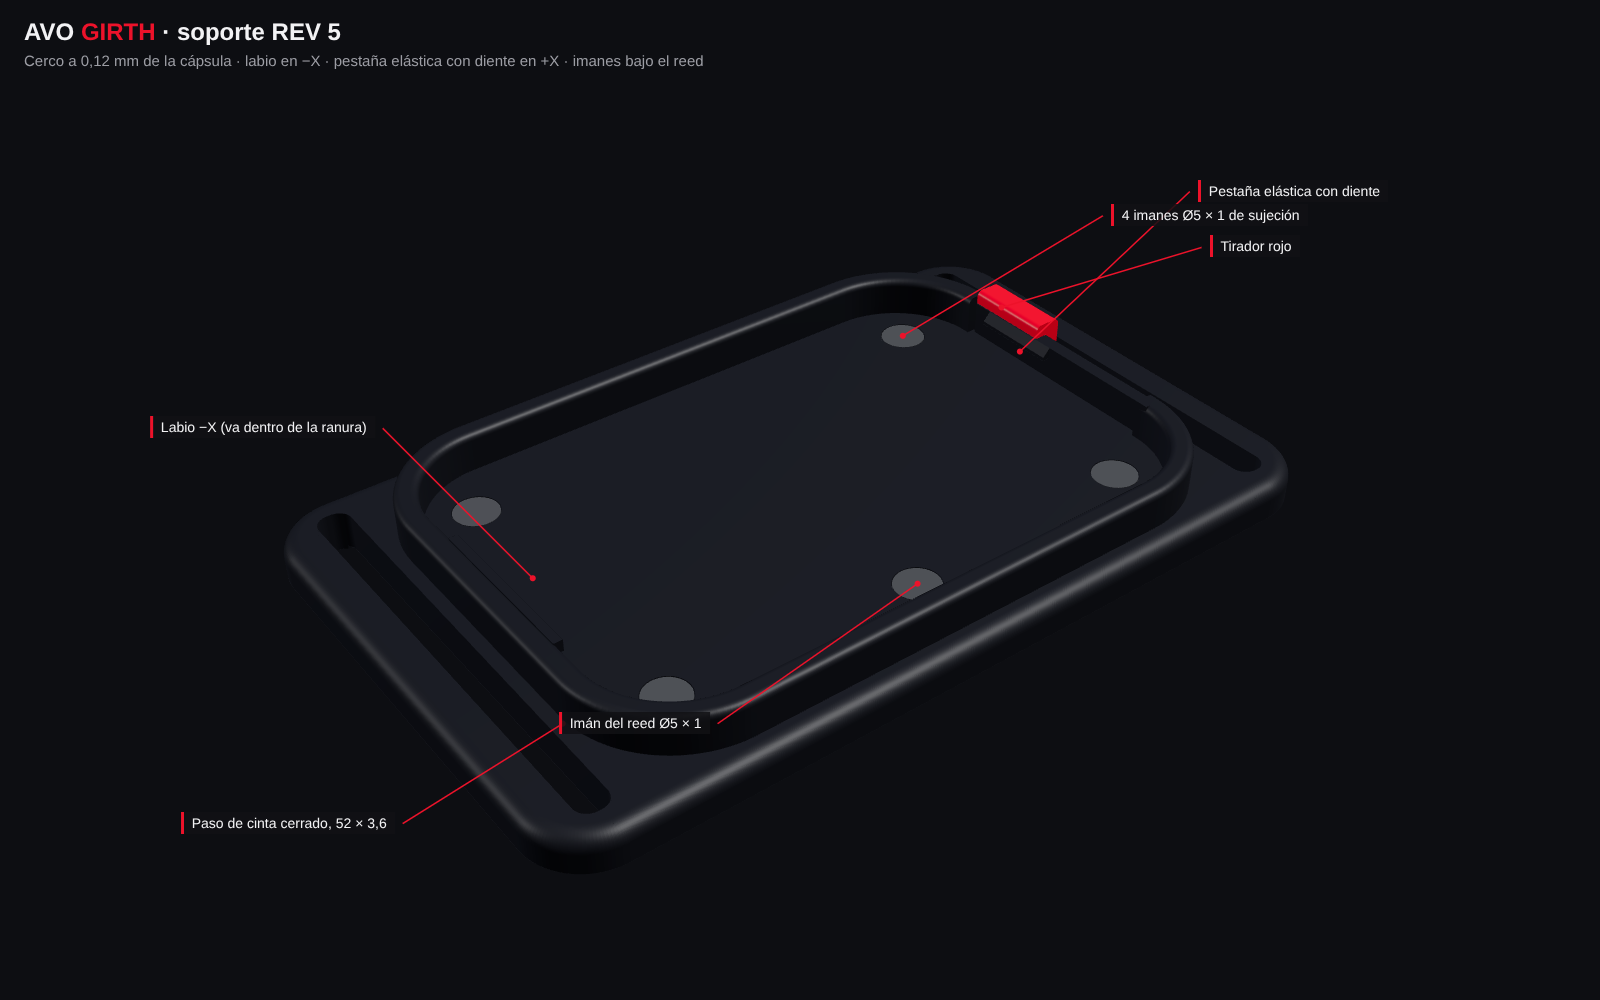
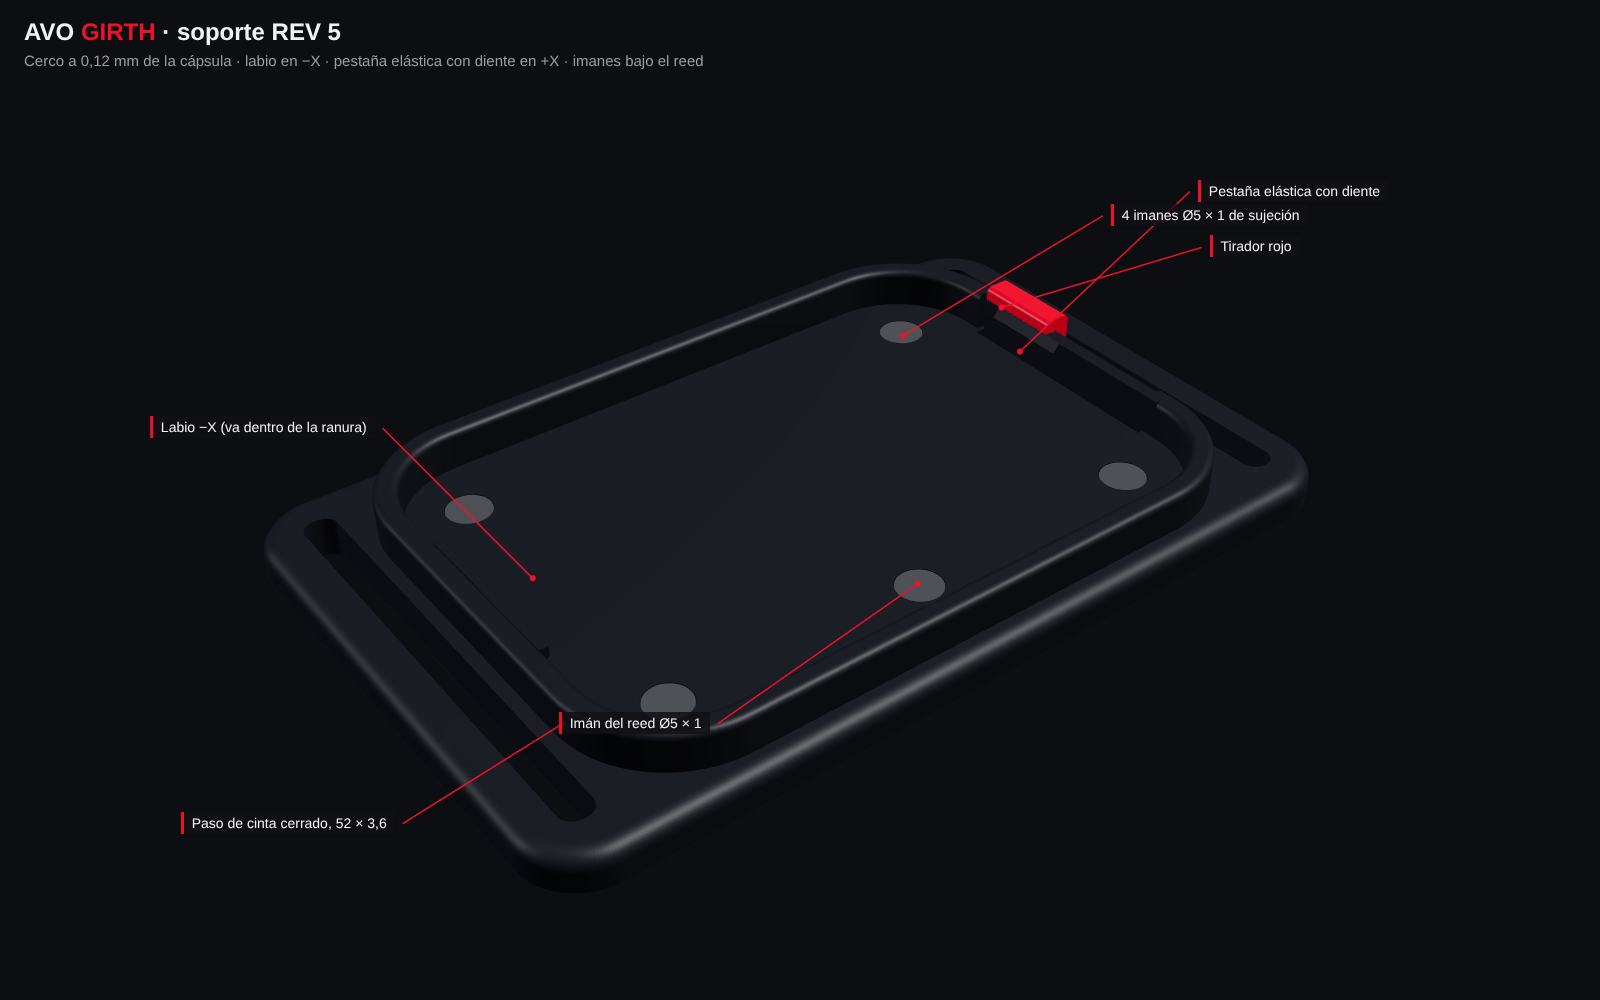
Cincha REV5.5: README, renders (incluida la vista de impresión) y registro
Claude-Session: https://claude.ai/code/session_01CFKdRMvEszajTemWxtmJHV

diff --git a/docs/REGISTRO_DE_CAMBIOS.md b/docs/REGISTRO_DE_CAMBIOS.md
@@ -715,3 +715,22 @@ Petición del usuario.
 - En la base, el alojamiento de la bobina pasa a ser circular, de Ø25,4 y 1,4 mm de profundidad, con 1,2 mm de fondo bajo la bobina. El canal de los hilos sale de su borde hacia −X.
 - El espesor de la bobina es estimado (1,0 mm): pendiente de calibre.
 - CI sin interferencias.
+
+## 2026-10-27 — Cincha REV 5.4 y 5.5 (paredes macizas, insertos M3, sin soportes)
+- **Petición del usuario:**
+  - colocar bien los STL para que desaparezcan los soportes;
+  - que todo el perímetro sea macizo, sin voladizos;
+  - insertos M3 en la tapa;
+  - permiso para ampliar la cápsula si los imanes chocaban.
+- **Pieza a pieza:**
+  - **Base:** pared maciza de 3,6 mm en toda la altura (antes, reborde volado), chaflán inferior de 45°, capa de sacrificio de 0,3 mm sobre los avellanados y techo de las ranuras de anclaje a 45°.
+  - **Tapa:** pared maciza de 4,95 mm hasta el techo, chaflán superior de 45°, 8 columnas Ø7 con alojamiento de inserto M3 (Ø4,0 × 5 mm, 1 mm de techo por encima).
+  - **Soporte:** la pestaña baja hasta la cama por una ranura de la placa, se quita el canal inferior de la cinta y la placa se ensancha para que el redondeo del borde no quede bajo el cerco.
+  - **Bandeja:** holgura de Ø7,4 alrededor de las columnas de la tapa; paso de los cables de la batería fuera del marco del C6.
+  - **C6:** se desplaza 0,4 mm hacia −X.
+- **Tamaño:** la cápsula pasa a 73 × 51 mm. Los tornillos, imanes y reed se definen ahora respecto al tamaño exterior. Los imanes de esquina quedan entre la cuna y la pared, sin voladizo.
+- **Exportación:** cada STEP y STL sale orientado para imprimir (tapa y tirador boca abajo); `out/montaje/` guarda las piezas en posición de montaje.
+- **Comprobaciones:**
+  - CI: 1 sólido por pieza y ninguna interferencia;
+  - análisis de voladizos sobre los STL: solo quedan los puentes de las capas de sacrificio y las caras de bloqueo del labio y del diente (0,7–0,9 mm).
+- **Campo estimado en el BNO** (dipolo, polaridad alterna en diagonal): unos 35 µT de los 8 imanes de esquina; el imán de esquina más cercano al reed queda a 21,9 mm.
